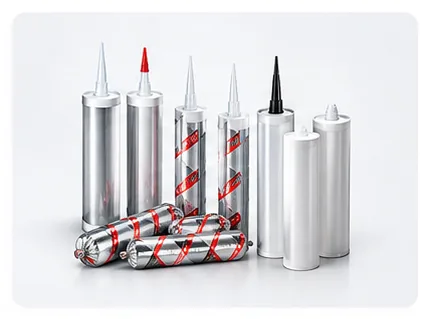
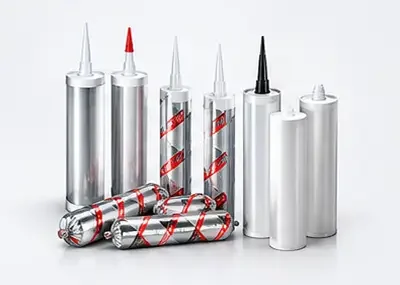
Снимки разделов — обрезанные кадры от клиента
Клиент прислал те же четыре снимка уже кадрированными, ставим их вместо
наших обрезков. Скрипт теперь берёт исходники из files/section-photos:
имя файла задаёт раздел, новый снимок — это просто новый файл в папке.

Changed region(s): [[0.12, 0.0842, 0.87, 0.8982]]

diff --git a/scripts/make-section-photos.py b/scripts/make-section-photos.py
@@ -1,8 +1,10 @@
 """Снимки разделов от клиента в вид, пригодный для витрины.
 
-Присылают их кадром 1600×1200, где сам товар занимает четверть по центру,
-а остальное — белое поле. На плитке 48px от такого кадра остаётся точка,
-поэтому поле срезаем по краю непрозрачного содержимого и ужимаем до 600px.
+Кладём исходники в `files/section-photos/<адрес раздела>.webp` — имя файла и
+задаёт раздел. Первый набор пришёл кадром 1600×1200, где товар занимал
+четверть по центру, поэтому белое поле срезаем по краю содержимого; у уже
+обрезанных кадров это ничего не меняет. Ужимаем до 600px по большей стороне,
+не растягивая мелкие.
 
 Запуск: python3 scripts/make-section-photos.py
 """
@@ -12,17 +14,10 @@ from pathlib import Path
 from PIL import Image, ImageChops
 
 ROOT = Path(__file__).resolve().parent.parent
+SOURCES = ROOT / 'files/section-photos'
 OUT = ROOT / 'src/assets/section-photos'
 SIZE = 600
-QUALITY = 82
-
-# Файл от клиента -> адрес раздела в каталоге
-SOURCES = {
-    'Downloads/01_materialy_dlya_montazha_okon.jpg': 'materialy-dlya-okon',
-    'Downloads/02_germetiki.jpg': 'germetiki',
-    'Downloads/03_klei_himiya_smazki.jpg': 'kley-himiya-smazki',
-    'Downloads/04_uplotnitelnye_lenty_PGS.jpg': 'uplotnitelnye-lenty-pes-samokleyaschiesy',
-}
+QUALITY = 85
 
 
 def trimmed(image):
@@ -42,18 +37,18 @@ def trimmed(image):
 
 def main():
     OUT.mkdir(parents=True, exist_ok=True)
-    home = Path.home()
+    if not SOURCES.exists():
+        print(f'нет папки с исходниками: {SOURCES.relative_to(ROOT)}')
+        return 1
 
-    for source, slug in SOURCES.items():
-        path = home / source
-        if not path.exists():
-            print(f'нет файла: {path}')
+    for path in sorted(SOURCES.iterdir()):
+        if path.suffix.lower() not in ('.jpg', '.jpeg', '.png', '.webp'):
             continue
 
         image = Image.open(path).convert('RGB')
         cropped = trimmed(image)
         cropped.thumbnail((SIZE, SIZE), Image.LANCZOS)
-        target = OUT / f'{slug}.webp'
+        target = OUT / f'{path.stem}.webp'
         cropped.save(target, 'WEBP', quality=QUALITY, method=6)
         print(f'{path.name} {image.size} -> {cropped.size} {target.relative_to(ROOT)}'
               f' ({target.stat().st_size // 1024} КБ)')
